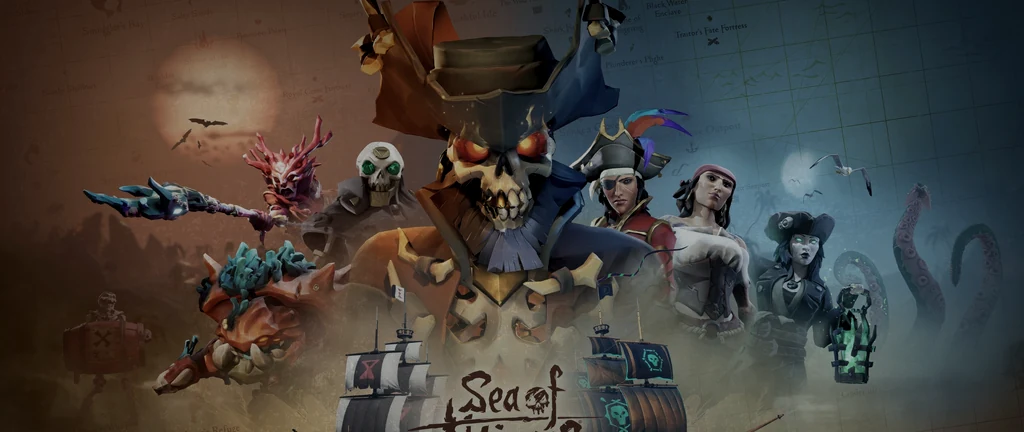
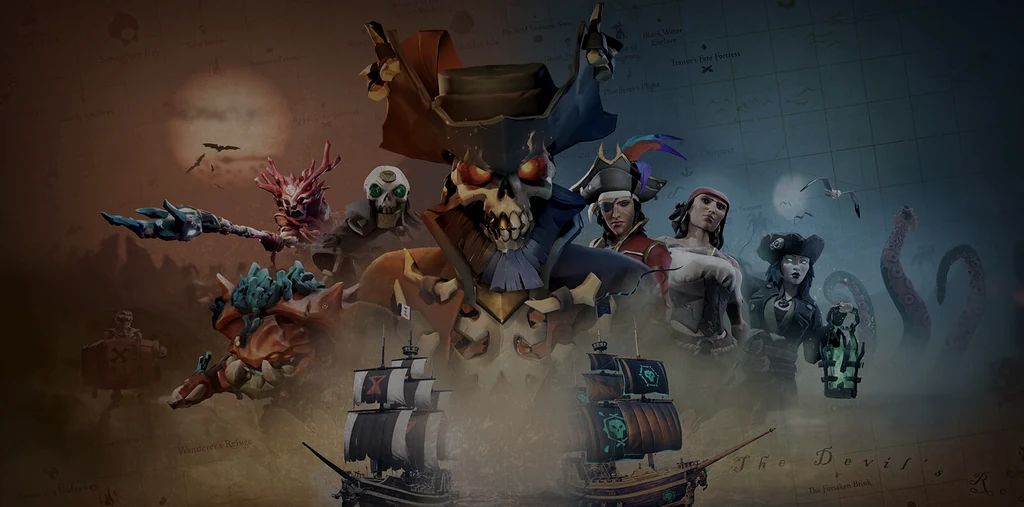
Update hero image to Supabase Sea of Thieves artwork
Fetch and process 1600×792 source into responsive WebP variants with
slightly dulled tones; point brand/LCP config at the new 1600w asset.

diff --git a/src/lib/responsive-images.ts b/src/lib/responsive-images.ts
@@ -52,13 +52,13 @@ export const heroResponsive: ResponsiveWidth[] = [
 	{ src: '/images/sea-of-thieves-cheats-hero-1024w.webp', width: 1024 },
 	{ src: '/images/sea-of-thieves-cheats-hero-1199w.webp', width: 1199 },
 	{ src: '/images/sea-of-thieves-cheats-hero-1536w.webp', width: 1536 },
-	{ src: '/images/sea-of-thieves-cheats-hero-1920w.webp', width: 1920 },
+	{ src: '/images/sea-of-thieves-cheats-hero-1600w.webp', width: 1600 },
 ];
 
 export const heroDesktopResponsive: ResponsiveWidth[] = heroResponsive;
 
 /** Default LCP src — full native-width WebP for retina desktops. */
-export const heroSrc = '/images/sea-of-thieves-cheats-hero-1920w.webp';
+export const heroSrc = '/images/sea-of-thieves-cheats-hero-1600w.webp';
 export const heroSrcSet = buildSrcSet(heroResponsive);
 export const heroSizes = '100vw';
 
@@ -66,9 +66,9 @@ export const heroSizes = '100vw';
 export const heroPreloadSrc = heroSrc;
 export const heroMimeType = 'image/webp';
 
-/** Intrinsic dimensions of the default LCP asset (1920w variant). */
-export const heroWidth = 1920;
-export const heroHeight = 810;
+/** Intrinsic dimensions of the default LCP asset (1600w variant). */
+export const heroWidth = 1600;
+export const heroHeight = 792;
 
 /** Responsive widths for below-fold content images. */
 export const contentWidths = [480, 960] as const;

diff --git a/src/data/brand.ts b/src/data/brand.ts
@@ -37,8 +37,8 @@ export const brand = {
 	logoRasterWidth: 512,
 	logoRasterHeight: 512,
 	logoAlt: 'Sea of Thieves Cheats logo',
-	defaultOgImage: '/images/sea-of-thieves-cheats-hero-1920w.webp',
-	heroImage: '/images/sea-of-thieves-cheats-hero-1920w.webp',
+	defaultOgImage: '/images/sea-of-thieves-cheats-hero-1600w.webp',
+	heroImage: '/images/sea-of-thieves-cheats-hero-1600w.webp',
 	/** Product demo clip — lazy-loaded on homepage; fetched only after play */
 	demoVideoUrl: 'https://seaofthievescheats.com/videos/hero.webm',
 	demoVideoPoster: '/images/sot-screenshot-06.webp',
